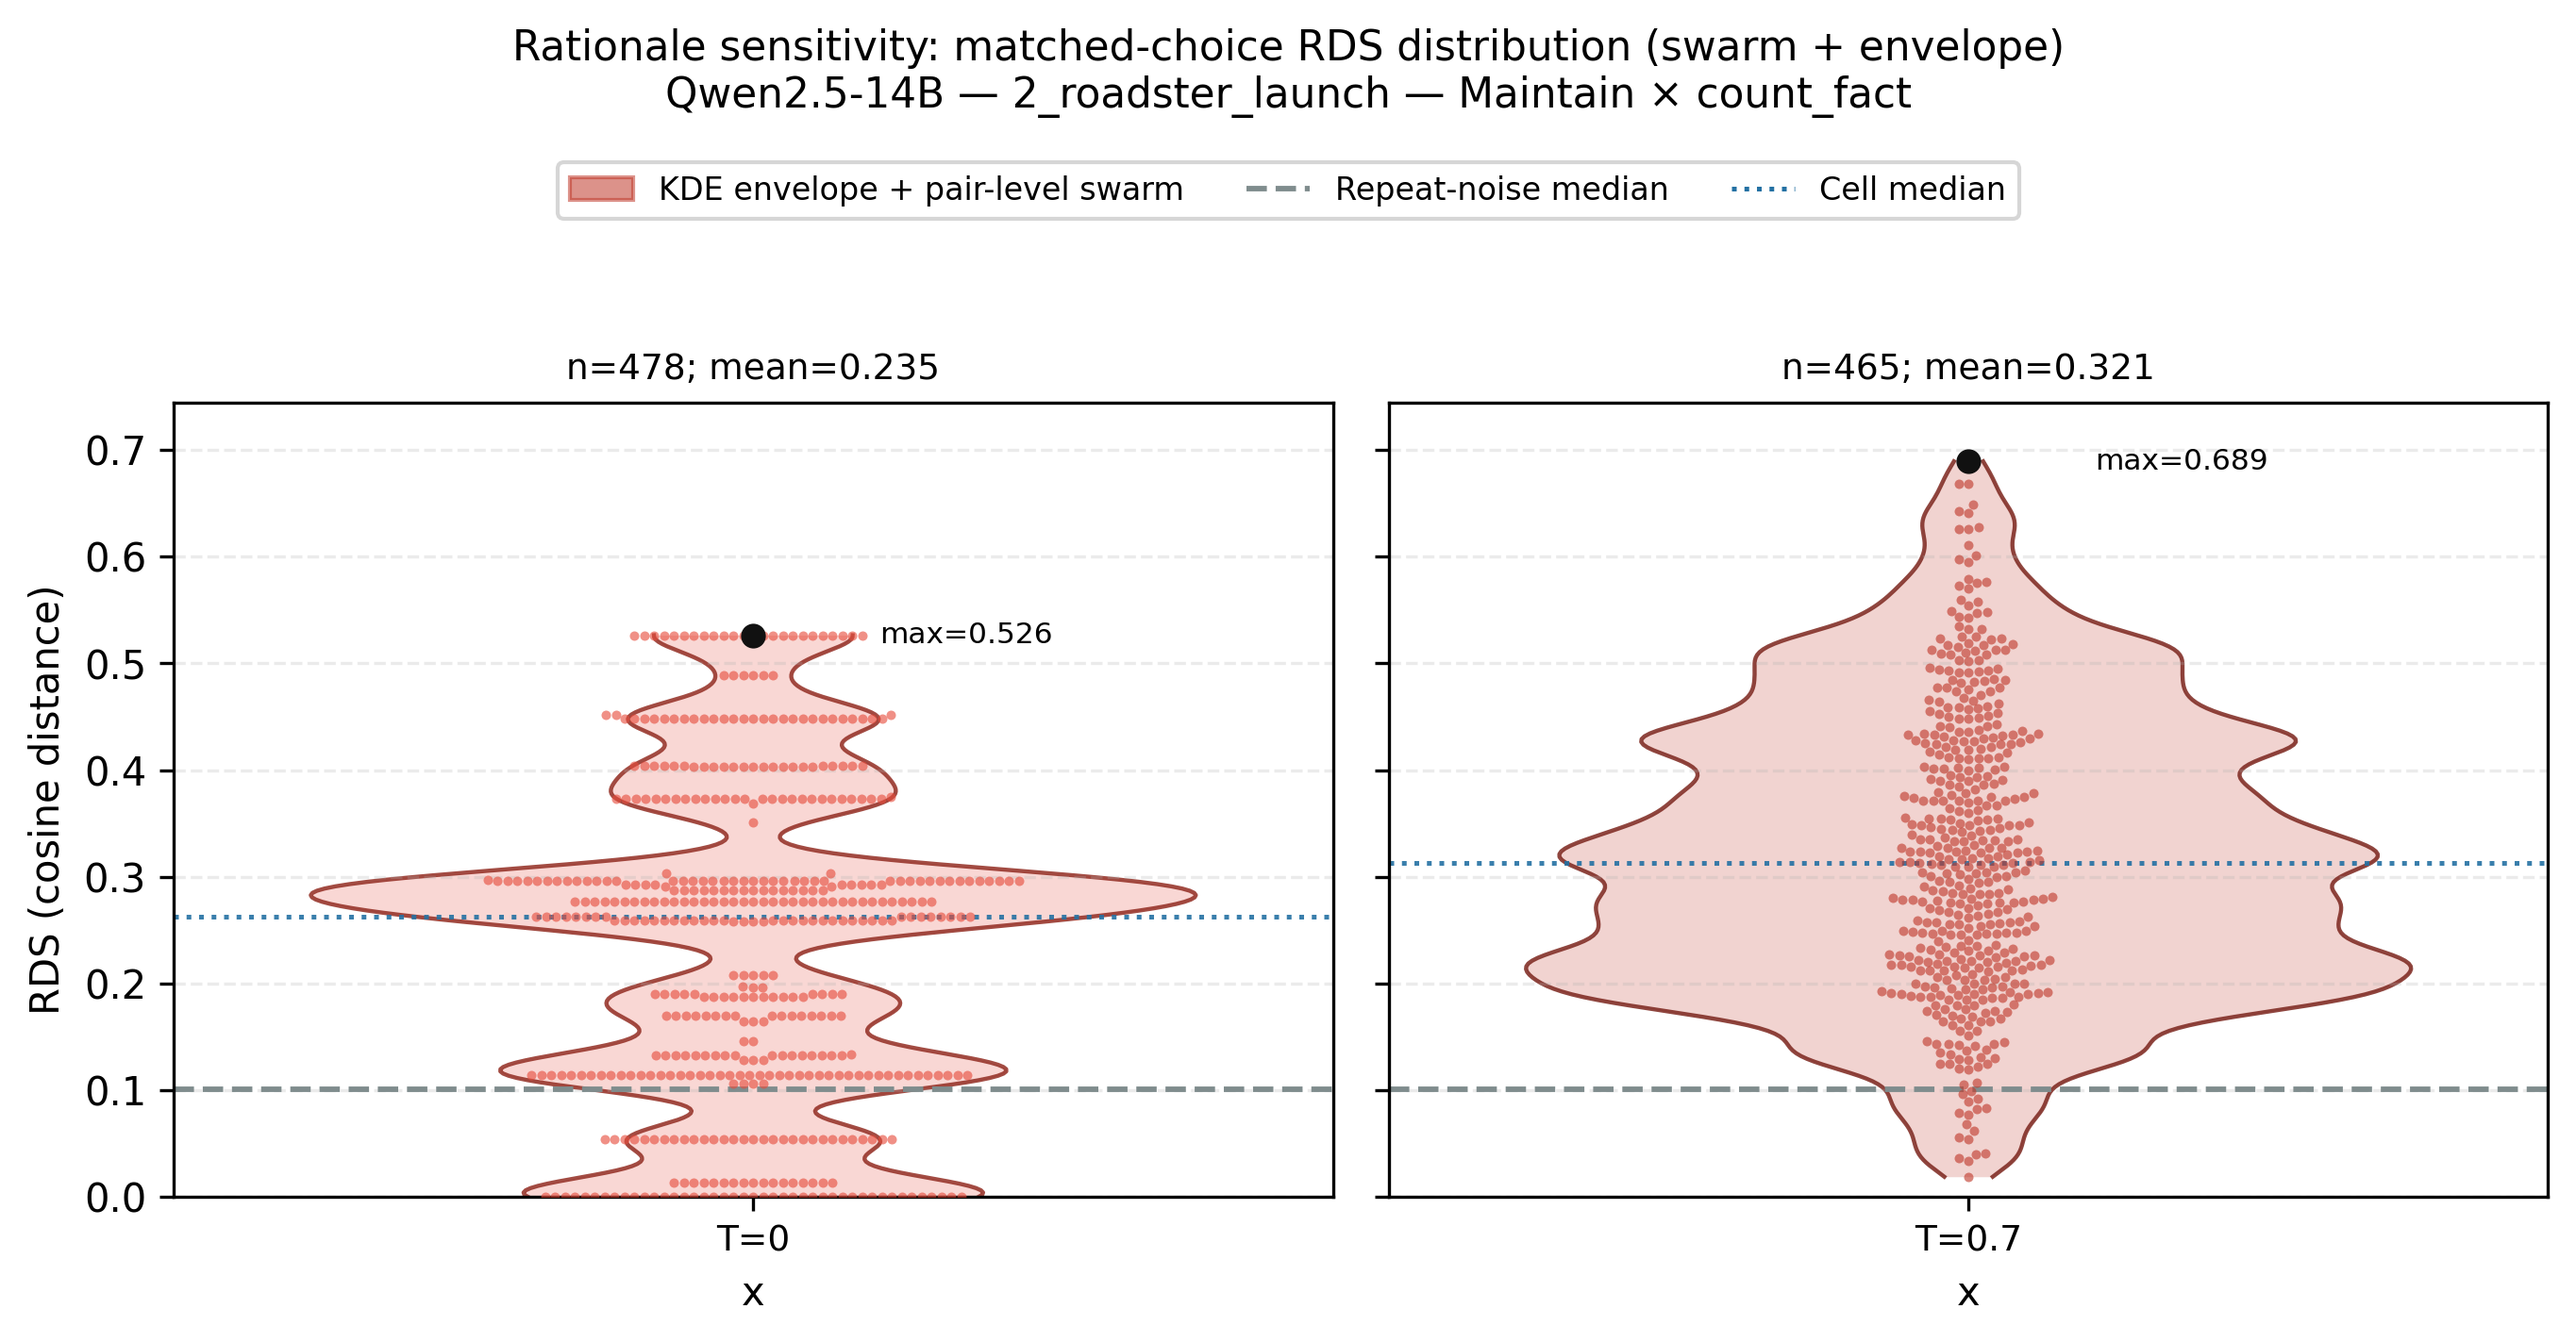
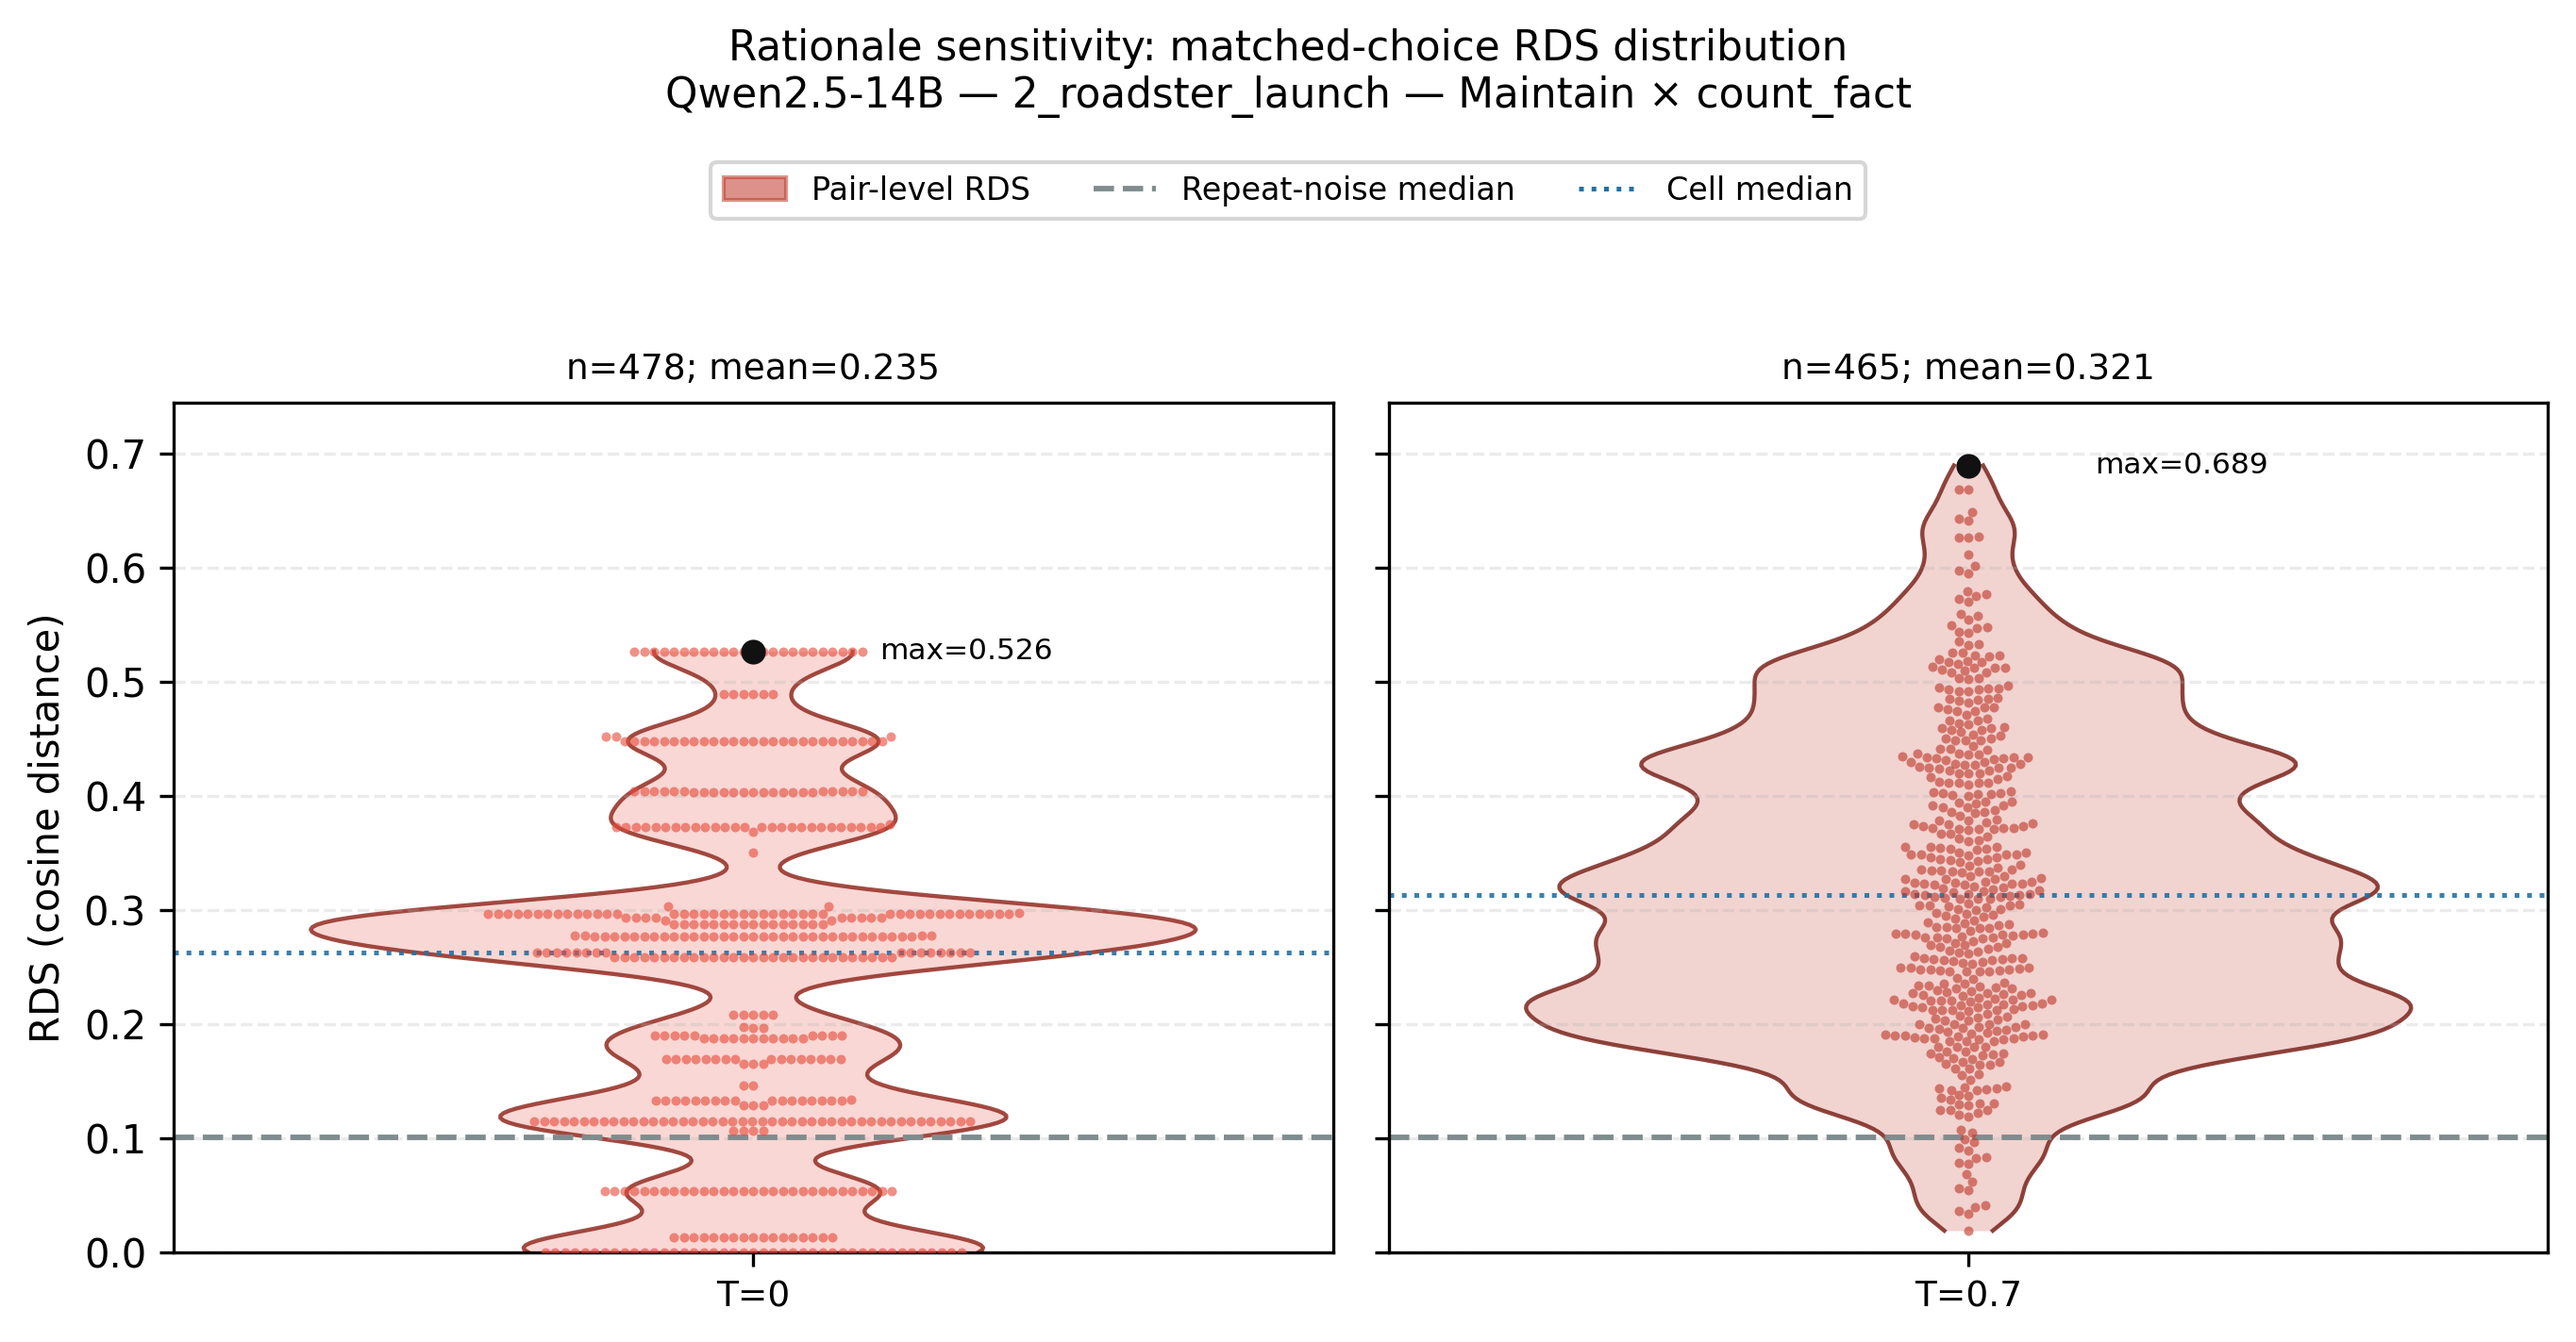
Clean Fig. 12 swarm-envelope plot labels and title.
Remove stray seaborn x-axis labels and drop style tags from the figure title/legend.

diff --git a/result_analysis/rationale_rds_analysis.py b/result_analysis/rationale_rds_analysis.py
@@ -703,7 +703,7 @@ def plot_rds_matched_choice_case_cell_swarm(
     if sub.empty:
         raise ValueError("No RDS pairs in case cell for requested temperatures.")
 
-    sub["x"] = 0
+    sub["panel"] = 0
     palette = {"T=0": "#e74c3c", "T=0.7": "#c0392b"}
 
     fig, axes = plt.subplots(1, len(temps), figsize=(4.6 * len(temps), 4.2), sharey=True)
@@ -721,7 +721,7 @@ def plot_rds_matched_choice_case_cell_swarm(
 
         sns.boxplot(
             data=g,
-            x="x",
+            x="panel",
             y="rds",
             ax=ax,
             width=0.22,
@@ -735,7 +735,7 @@ def plot_rds_matched_choice_case_cell_swarm(
         )
         sns.swarmplot(
             data=g,
-            x="x",
+            x="panel",
             y="rds",
             color=palette.get(label, "#c0392b"),
             ax=ax,
@@ -762,6 +762,8 @@ def plot_rds_matched_choice_case_cell_swarm(
         )
         ax.set_xticks([0])
         ax.set_xticklabels([label], fontsize=9)
+        ax.set_xlabel("")
+        ax.xaxis.label.set_visible(False)
         ax.set_xlim(-0.55, 0.55)
         ax.set_ylim(0, y_max)
         ax.set_ylabel("RDS (cosine distance)" if ax is axes[0] else "")
@@ -769,18 +771,21 @@ def plot_rds_matched_choice_case_cell_swarm(
         ax.grid(True, axis="y", linestyle="--", alpha=0.25)
 
     handles = [
-        mpatches.Patch(color="#c0392b", alpha=0.75, label="Pair-level RDS (swarm)"),
+        mpatches.Patch(color="#c0392b", alpha=0.75, label="Pair-level RDS"),
         plt.Line2D([0], [0], color="#7f8c8d", linestyle="--", linewidth=1.4, label="Repeat-noise median"),
         plt.Line2D([0], [0], color="#2471a3", linestyle=":", linewidth=1.2, label="Cell median"),
     ]
     fig.legend(handles=handles, loc="upper center", bbox_to_anchor=(0.5, 1.02), ncol=3, fontsize=8)
     fig.suptitle(
-        f"Rationale sensitivity: matched-choice RDS distribution (swarm)\n"
+        f"Rationale sensitivity: matched-choice RDS distribution\n"
         f"{_short_model_name(model)} — {scenario} — {strategy} × {context_variant}",
         fontsize=10.5,
         y=1.12,
     )
     plt.tight_layout()
+    for ax in axes:
+        ax.set_xlabel("")
+        ax.xaxis.label.set_visible(False)
     plt.savefig(save_path, dpi=300, bbox_inches="tight")
     plt.close(fig)
     return _summarize_rds_case_cell(sub)
@@ -842,7 +847,7 @@ def plot_rds_matched_choice_case_cell_swarm_envelope(
     if sub.empty:
         raise ValueError("No RDS pairs in case cell for requested temperatures.")
 
-    sub["x"] = 0
+    sub["panel"] = 0
     palette = {"T=0": "#e74c3c", "T=0.7": "#c0392b"}
     edge_palette = {"T=0": "#922b21", "T=0.7": "#7b241c"}
 
@@ -885,7 +890,7 @@ def plot_rds_matched_choice_case_cell_swarm_envelope(
 
         sns.swarmplot(
             data=g,
-            x="x",
+            x="panel",
             y="rds",
             color=fill_color,
             ax=ax,
@@ -912,6 +917,8 @@ def plot_rds_matched_choice_case_cell_swarm_envelope(
         )
         ax.set_xticks([0])
         ax.set_xticklabels([label], fontsize=9)
+        ax.set_xlabel("")
+        ax.xaxis.label.set_visible(False)
         ax.set_xlim(-0.55, 0.55)
         ax.set_ylim(0, y_max)
         ax.set_ylabel("RDS (cosine distance)" if ax is axes[0] else "")
@@ -919,18 +926,21 @@ def plot_rds_matched_choice_case_cell_swarm_envelope(
         ax.grid(True, axis="y", linestyle="--", alpha=0.25)
 
     handles = [
-        mpatches.Patch(color="#c0392b", alpha=0.55, label="KDE envelope + pair-level swarm"),
+        mpatches.Patch(color="#c0392b", alpha=0.55, label="Pair-level RDS"),
         plt.Line2D([0], [0], color="#7f8c8d", linestyle="--", linewidth=1.4, label="Repeat-noise median"),
         plt.Line2D([0], [0], color="#2471a3", linestyle=":", linewidth=1.2, label="Cell median"),
     ]
     fig.legend(handles=handles, loc="upper center", bbox_to_anchor=(0.5, 1.02), ncol=3, fontsize=8)
     fig.suptitle(
-        f"Rationale sensitivity: matched-choice RDS distribution (swarm + envelope)\n"
+        f"Rationale sensitivity: matched-choice RDS distribution\n"
         f"{_short_model_name(model)} — {scenario} — {strategy} × {context_variant}",
         fontsize=10.5,
         y=1.12,
     )
     plt.tight_layout()
+    for ax in axes:
+        ax.set_xlabel("")
+        ax.xaxis.label.set_visible(False)
     plt.savefig(save_path, dpi=300, bbox_inches="tight")
     plt.close(fig)
     return _summarize_rds_case_cell(sub)
